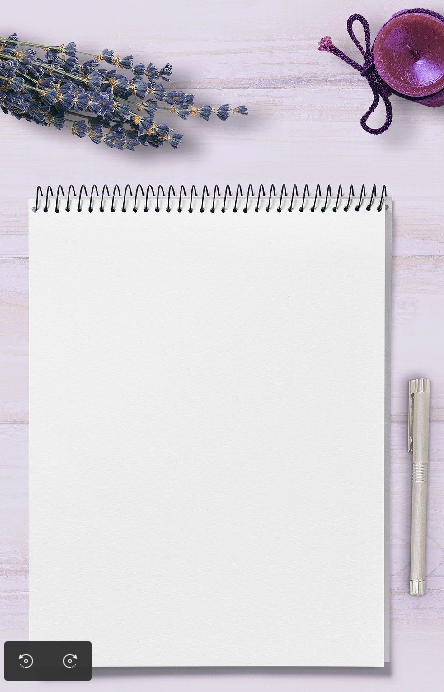
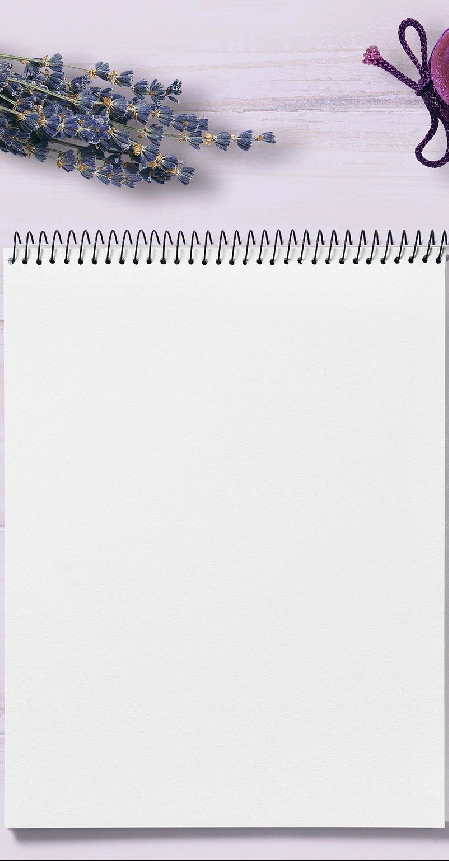
make login page responsive

Changed region(s): [[0.0, 0.0, 1.0, 1.0], [0.0, 0.7587, 0.4099, 1.0], [0.4392, 0.9408, 0.5563, 0.9711]]

diff --git a/src/pages/Unauth/SignIn/SignIn.tsx b/src/pages/Unauth/SignIn/SignIn.tsx
@@ -1,7 +1,7 @@
 
 import { useState } from 'react'
 import { Link, useHistory } from 'react-router-dom'
-import {useDispatch } from 'react-redux'
+import { useDispatch } from 'react-redux'
 import { setToken } from 'store/modules/auth/reducer'
 
 import {
@@ -123,6 +123,46 @@ const SignIn = () => {
     </DesktopBreakPoint>
     <PhoneBreakPoint>
       <MobileWrapper backgroundImage={mobileBackgroundImage}>
+        {isLoading ? <LoadingModal show={isLoading} /> : ""}
+          <FormSection mobile>
+            <FormContainer>
+              <LoginMessage >Let's write Some Notes</LoginMessage>
+              <Form
+                autoComplete="off"
+                onFinish={onFinish}
+                onFinishFailed={onFinishFailed}
+              >
+                <Form.Item
+                  name="username"
+                  rules={[{ required: true, message: 'Please input your username!' }]}
+
+                >
+                  <Input
+                    placeholder="Username" />
+                </Form.Item>
+                <Form.Item
+                  name="password"
+                  rules={[{ required: true, message: 'Please input your password!' }]}
+                >
+                  <PasswordInput
+                    placeholder="Password"
+                  />
+                </Form.Item>
+                <ButtonsContainer>
+                  <Form.Item>
+                    <SignInButton size={'large'} htmlType='submit' >
+                      <ButtonText>Login !</ButtonText>
+                    </SignInButton>
+                  </Form.Item>
+                  <Form.Item>
+                    <SignUpButton size={'large'}  >
+                      <Link to="/signup">Sign Up !</Link>
+                    </SignUpButton>
+                  </Form.Item>
+                </ButtonsContainer>
+              </Form>
+            </FormContainer>
+          </FormSection>
       </MobileWrapper>
     </PhoneBreakPoint>
   </>

diff --git a/src/pages/Unauth/SignIn/styles.ts b/src/pages/Unauth/SignIn/styles.ts
@@ -1,7 +1,11 @@
 import styled from 'styled-components'
 import { Input as AntDesignInput, Form as AntDesignForm, Button as AntDesignButton, Divider as AntDesignDivider } from "antd";
+import { FileProtectOutlined } from '@ant-design/icons';
 interface Props {
   backgroundImage: any
+}
+interface FormSectionProps {
+  mobile?: boolean
 }
 
 export const Wrapper = styled.div<Pick<Props, 'backgroundImage'>>`
@@ -21,7 +25,7 @@ export const FormContainer = styled.div`
 `
 export const Content = styled.div`
 display: flex;
-justify-content: space-between;
+justify-content:space-between;
 align-items: center;
 flex-direction: row;
 width: 100%;
@@ -39,7 +43,7 @@ height: 100%;
 `
 
 export const FormSection = styled.div`
-width: 40%;
+width: ${({mobile}:FormSectionProps)=>(mobile ? '100%' : '40%')};
 height: 80%;
 display: flex;
 justify-content: center;
@@ -47,7 +51,7 @@ align-items: center;
 flex-direction: column;
 /* border: .5rem solid gray;
 border-radius: 0.5rem; */
-margin-right: 12%; 
+margin-right:${({mobile}:FormSectionProps)=>(mobile ? '0%' : '12%')}; 
 position: relative;
 top:10%;
 
